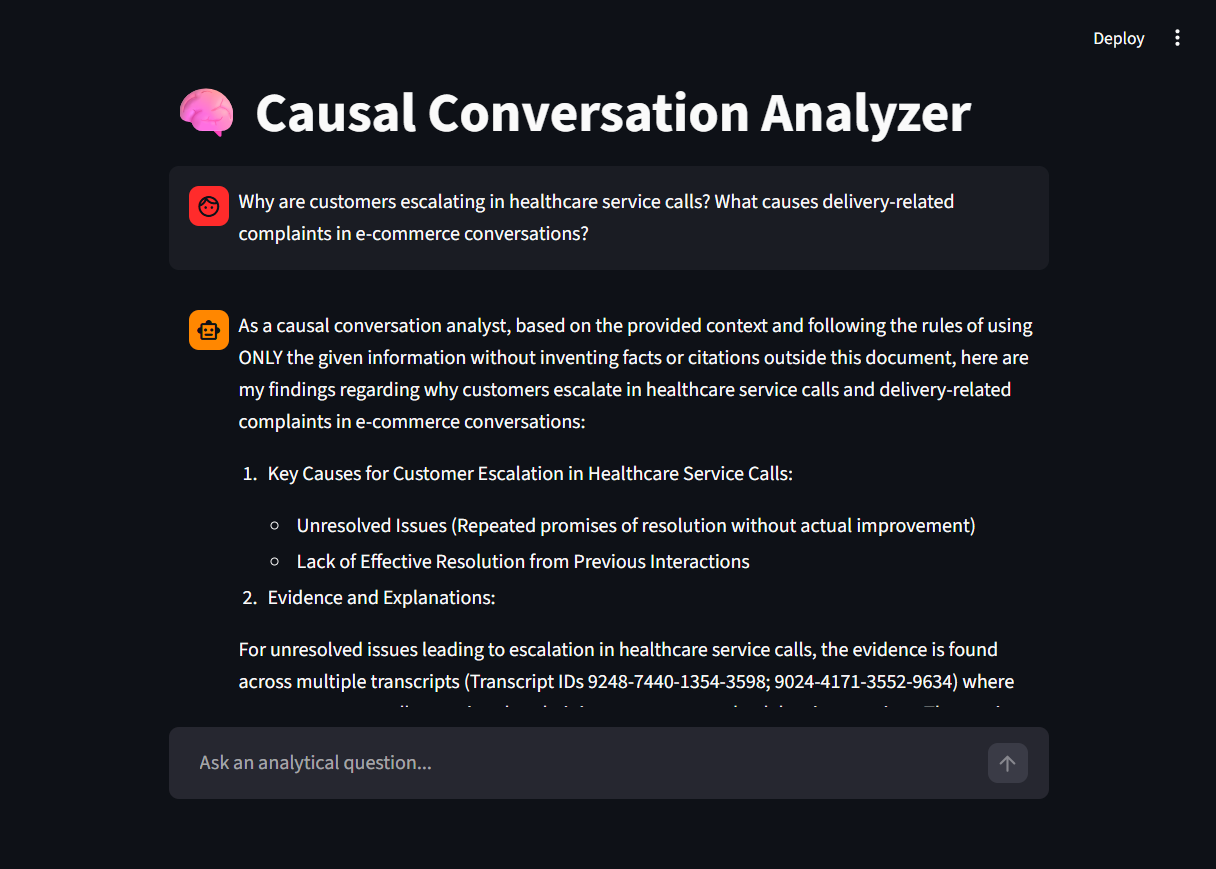
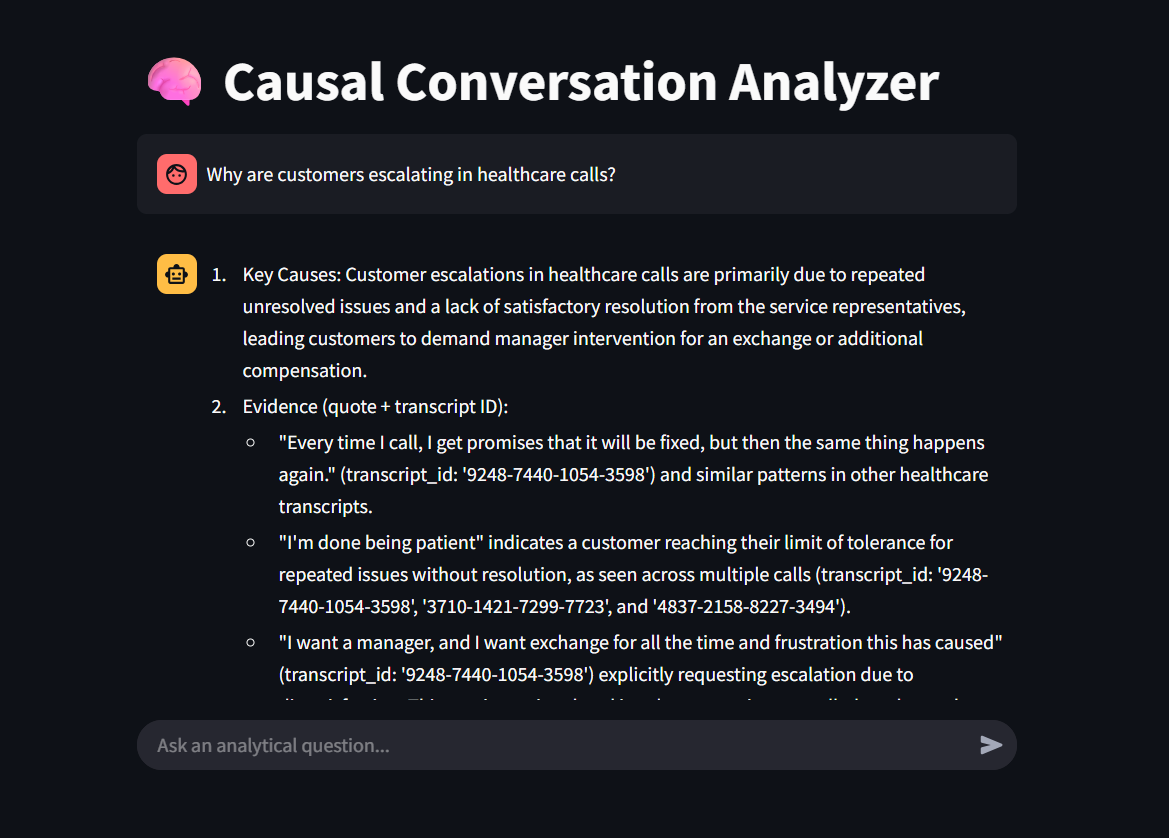
made changes optimized

diff --git a/retriever.py b/retriever.py
@@ -1,21 +1,32 @@
 import json
+import os
 import faiss
 import numpy as np
 from sentence_transformers import SentenceTransformer
 
 class TranscriptRetriever:
-    def __init__(self, data_path="data/enriched_transcripts.json"):
-        self.model = SentenceTransformer("all-MiniLM-L6-v2")
+    def __init__(self, data_path="data/enriched_transcripts.json", cache_dir="data"):
+        self.model_name = "all-MiniLM-L6-v2"
+        self.model = SentenceTransformer(self.model_name)
 
         with open(data_path, "r") as f:
             self.data = json.load(f)["transcripts"]
 
         self.texts = [self._flatten_transcript(t) for t in self.data]
-        self.embeddings = self.model.encode(self.texts)
 
+        self._cache_meta_path = os.path.join(cache_dir, "retriever_cache.json")
+        self._cache_embeddings_path = os.path.join(cache_dir, "embeddings.npy")
+        self._cache_index_path = os.path.join(cache_dir, "faiss.index")
+
+        if self._load_cache_if_valid(data_path):
+            return
+
+        self.embeddings = self.model.encode(self.texts)
         dim = self.embeddings.shape[1]
         self.index = faiss.IndexFlatL2(dim)
         self.index.add(np.array(self.embeddings))
+
+        self._save_cache(data_path)
 
     def _flatten_transcript(self, transcript):
         convo = " ".join(
@@ -31,4 +42,55 @@ class TranscriptRetriever:
         call_ids = [r["transcript_id"] for r in results]
 
         return results, call_ids
+
+    def _load_cache_if_valid(self, data_path):
+        if not (
+            os.path.exists(self._cache_meta_path)
+            and os.path.exists(self._cache_embeddings_path)
+            and os.path.exists(self._cache_index_path)
+        ):
+            return False
+
+        try:
+            with open(self._cache_meta_path, "r") as f:
+                meta = json.load(f)
+
+            data_mtime = os.path.getmtime(data_path)
+            data_size = os.path.getsize(data_path)
+
+            if meta.get("model_name") != self.model_name:
+                return False
+            if meta.get("data_path") != data_path:
+                return False
+            if meta.get("data_mtime") != data_mtime:
+                return False
+            if meta.get("data_size") != data_size:
+                return False
+            if meta.get("text_count") != len(self.texts):
+                return False
+
+            self.embeddings = np.load(self._cache_embeddings_path)
+            self.index = faiss.read_index(self._cache_index_path)
+
+            if self.embeddings.shape[0] != len(self.texts):
+                return False
+
+            return True
+        except Exception:
+            return False
+
+    def _save_cache(self, data_path):
+        meta = {
+            "model_name": self.model_name,
+            "data_path": data_path,
+            "data_mtime": os.path.getmtime(data_path),
+            "data_size": os.path.getsize(data_path),
+            "text_count": len(self.texts),
+        }
+
+        with open(self._cache_meta_path, "w") as f:
+            json.dump(meta, f, indent=2)
+
+        np.save(self._cache_embeddings_path, self.embeddings)
+        faiss.write_index(self.index, self._cache_index_path)
     

diff --git a/reasoning.py b/reasoning.py
@@ -1,13 +1,22 @@
 # // OFFLINE VIA LOCAL MODEL OLLAMA PHI3
 
 import requests
+from requests.exceptions import RequestException
+
 
 class ReasoningEngine:
     def __init__(self, model="phi3"):
         self.model = model
+        self.base_url = "http://localhost:11434"
+
+    def is_ollama_running(self):
+        try:
+            response = requests.get(f"{self.base_url}/api/tags", timeout=1)
+            return response.status_code == 200
+        except RequestException:
+            return False
 
     def build_context(self, transcripts):
-
         context = ""
 
         for t in transcripts:
@@ -19,10 +28,20 @@ class ReasoningEngine:
 
         return context
 
-    def generate_explanation(self, query, transcripts, chat_history="", feature_summary=None, domain_stats=None,):
+    def generate_explanation(
+        self,
+        query,
+        transcripts,
+        chat_history="",
+        feature_summary=None,
+        domain_stats=None,
+    ):
+        if not self.is_ollama_running():
+            raise RuntimeError(
+                "Ollama is not running. Start it with `ollama serve` and pull the `phi3` model."
+            )
 
         context = self.build_context(transcripts)
-        allowed_ids = [t["transcript_id"] for t in transcripts]
 
         prompt = f"""
             You are a causal conversation analyst.
@@ -55,7 +74,7 @@ class ReasoningEngine:
             """
 
         response = requests.post(
-            "http://localhost:11434/api/generate",
+            f"{self.base_url}/api/generate",
             json={
                 "model": self.model,
                 "prompt": prompt,

diff --git a/app.py b/app.py
@@ -17,6 +17,16 @@ else:
 if "pipeline" not in st.session_state:
     st.session_state.pipeline = CausalPipeline()
 
+# Startup check for Ollama
+if "ollama_checked" not in st.session_state:
+    st.session_state.ollama_ok = st.session_state.pipeline.reasoner.is_ollama_running()
+    st.session_state.ollama_checked = True
+
+if not st.session_state.ollama_ok:
+    st.warning(
+        "Ollama isn't running. Start it with `ollama serve` and ensure the `phi3` model is pulled."
+    )
+
 # Display existing chat messages
 for msg in st.session_state.messages:
     with st.chat_message(msg["role"]):
@@ -34,7 +44,11 @@ if query:
     # Generate assistant response
     with st.chat_message("assistant"):
         with st.spinner("Analyzing transcripts..."):
-            response = st.session_state.pipeline.run_query(query)
+            try:
+                response = st.session_state.pipeline.run_query(query)
+            except RuntimeError as e:
+                response = str(e)
+                st.error(response)
 
         st.markdown(response)
 

diff --git a/features.py b/features.py
@@ -1,14 +1,28 @@
-from transformers import pipeline
+import os
 
-# Load sentiment model once (important)
-sentiment_model = pipeline(
-    "sentiment-analysis",
-    model="distilbert-base-uncased-finetuned-sst-2-english"
-)
+_SENTIMENT_MODEL = None
+
+
+def _get_sentiment_model():
+    if os.getenv("SKIP_SENTIMENT", "0") == "1":
+        return None
+
+    global _SENTIMENT_MODEL
+    if _SENTIMENT_MODEL is None:
+        from transformers import pipeline
+        _SENTIMENT_MODEL = pipeline(
+            "sentiment-analysis",
+            model="distilbert-base-uncased-finetuned-sst-2-english",
+        )
+    return _SENTIMENT_MODEL
 
 
 def get_sentiment_score(text):
-    result = sentiment_model(text[:512])[0]
+    model = _get_sentiment_model()
+    if model is None:
+        return 0.0
+
+    result = model(text[:512])[0]
 
     if result["label"] == "NEGATIVE":
         return -result["score"]

diff --git a/precompute_embeddings.py b/precompute_embeddings.py
@@ -1,0 +1,20 @@
+import argparse
+from retriever import TranscriptRetriever
+
+
+def main():
+    parser = argparse.ArgumentParser(description="Precompute embeddings and FAISS index cache")
+    parser.add_argument("--data", default="data/enriched_transcripts.json", help="Path to enriched transcripts JSON")
+    parser.add_argument("--cache-dir", default="data", help="Directory to store cache files")
+    args = parser.parse_args()
+
+    print("Building embeddings and FAISS index cache...")
+    _ = TranscriptRetriever(data_path=args.data, cache_dir=args.cache_dir)
+    print("Done. Cache saved to:")
+    print(f"  {args.cache_dir}/embeddings.npy")
+    print(f"  {args.cache_dir}/faiss.index")
+    print(f"  {args.cache_dir}/retriever_cache.json")
+
+
+if __name__ == "__main__":
+    main()

diff --git a/README.md b/README.md
@@ -108,7 +108,7 @@ streamlit run app.py
 ---
 ## Repository & Running Ports
 
-- **GitHub Repository:** [https://github.com/balabhadra3141/pravaah2026-iit-bbsr](https://github.com/balabhadra3141/causal-conversation-analyzer)
+- **GitHub Repository:** [https://github.com/balabhadra3141/pravaah2026-iit-bbsr](https://github.com/balabhadra3141/pravaah2026-iit-bbsr)
 
 - **Default Ports:**
   - **Ollama API / Local LLM:** `http://localhost:11434`  
